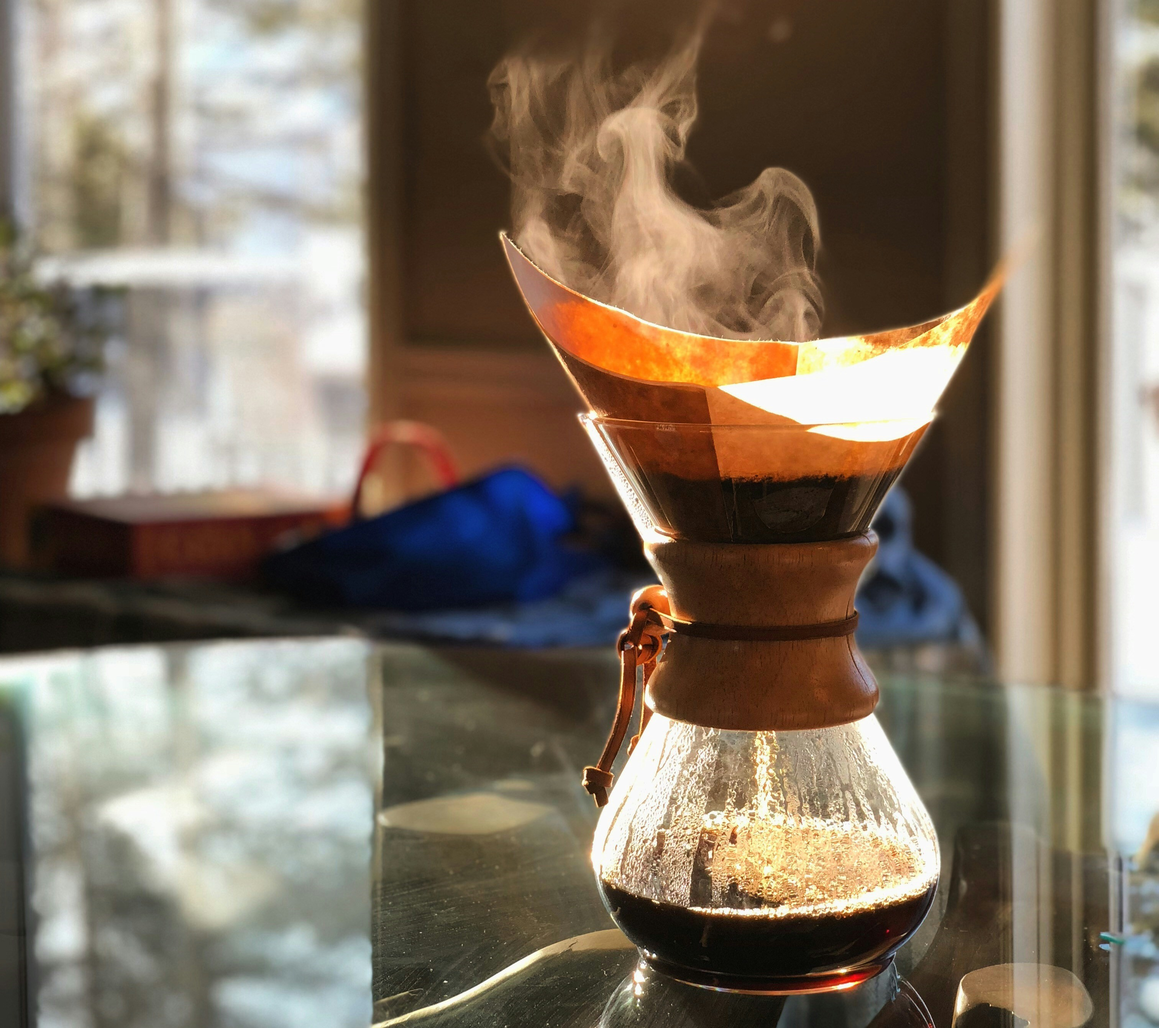
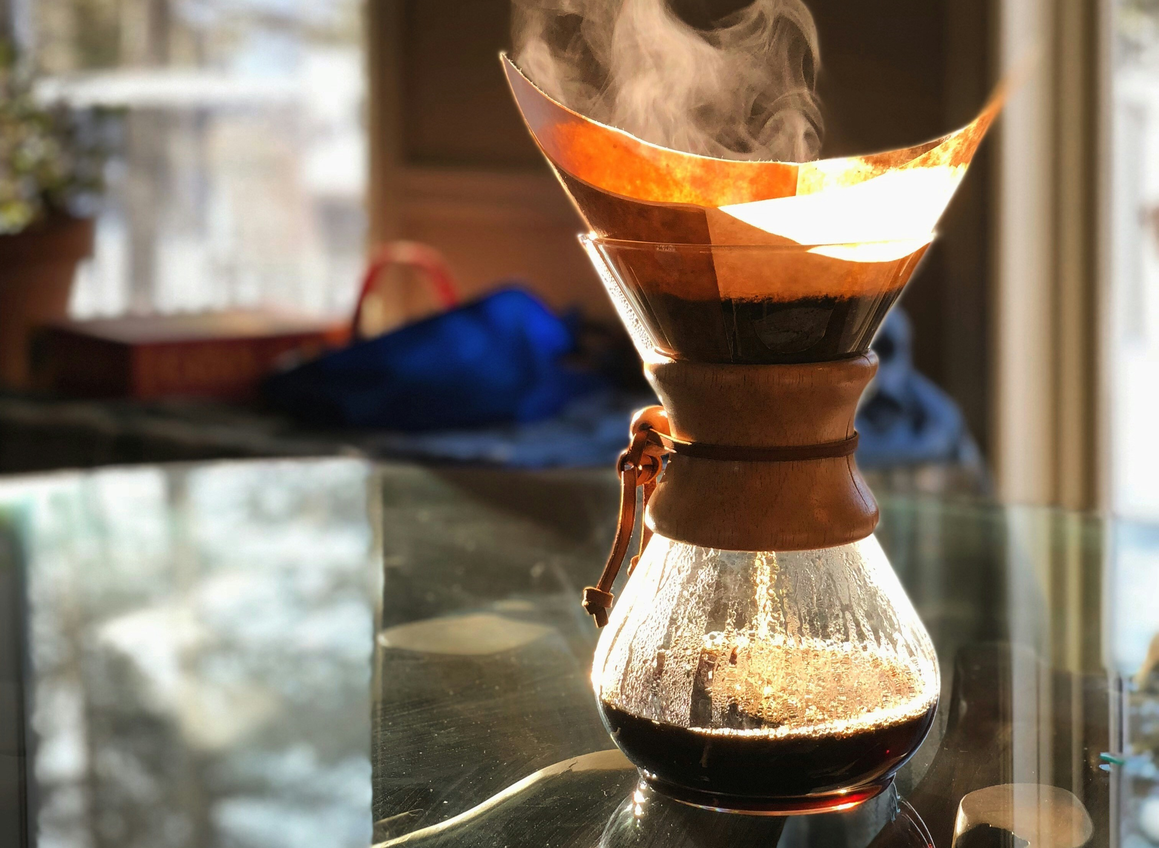
shop with header and footer

diff --git a/pages/shop.html b/pages/shop.html
@@ -82,16 +82,16 @@
 
                 <div class="carousel-inner">
                     <div class="carousel-item active">
-                        <img src="../images/Shop/shop_1.jpg" alt="chemex" class="d-block" style="width:100%">
+                        <img class="fit-cover" src="../images/Shop/shop_1.jpg" alt="chemex" class="d-flex" style="width: 100%">
                     </div>
                     <div class="carousel-item">
-                        <img src="../images/Shop/shop_2.jpg" alt="Gray plunger pot" class="d-block" style="width:100%">
+                        <img class="fit-cover" src="../images/Shop/shop_2.jpg" alt="Gray plunger pot" class="d-block" style="width: 100%">
                     </div>
                     <div class="carousel-item">
-                        <img src="../images/Shop/shop_3.jpg" alt="Black plunger pot" class="d-block" style="width:100%">
+                        <img src="../images/Shop/shop_3.jpg" alt="Black plunger pot" class="d-block" style="width: 100%">
                     </div>
                     <div class="carousel-item">
-                        <img src="../images/Shop/shop_4.jpg" alt="Black plunger pot" class="d-flex" style="width:100%">
+                        <img src="../images/Shop/shop_4.jpg" alt="Black plunger pot" class="d-block" style="width: 100%">
                     </div>
                 </div>
 
@@ -108,8 +108,6 @@
                 </button>
             </div>
         </div>
-
-
 
 
 

diff --git a/css/style.css b/css/style.css
@@ -63,6 +63,20 @@ ul, li {
     margin-bottom: 30px;
   }
 }
+/*################ Shop ################*/
+@media screen and (max-width: 992px) {
+  #main_shop #carousel_shop {
+    width: 100px;
+    height: 100px;
+    max-height: 800px;
+    justify-content: center;
+    margin-bottom: 300px;
+  }
+  #main_shop #carousel_shop .carousel-item img {
+    height: 100px;
+    object-fit: cover;
+  }
+}
 /*################## Footer################ */
 @media screen and (max-width: 992px) {
   #footer__footer {
@@ -276,20 +290,21 @@ ul, li {
   color: white;
   text-align: center;
   width: 100%;
-  height: 1500px;
+  height: auto;
 }
-
-.main-shop_title {
+#main-shop .main-shop_title {
   padding-bottom: 80px;
   padding-top: 80px;
 }
-
-#carousel_shop {
-  width: 1000px;
-  height: 1000px;
+#main-shop #carousel_shop {
+  width: 70%;
+  height: 100%;
+  max-height: 1800px;
+  justify-content: center;
+  margin-bottom: 300px;
 }
-#carousel_shop .carousel-item img {
-  width: 100%;
+#main-shop #carousel_shop .carousel-item img {
+  height: 900px;
   object-fit: cover;
 }
 

diff --git a/sass/PagesStyles/_shop.scss b/sass/PagesStyles/_shop.scss
@@ -3,8 +3,8 @@
     color: white;
     text-align: center;
     width: 100%;
-    height: 1500px;
-}
+    height: auto;
+
     .main-shop_title {
         padding-bottom: 80px;
         padding-top: 80px;
@@ -12,7 +12,13 @@
 
 
 #carousel_shop {
-    width: 1000px;
-    height: 1000px;
-        .carousel-item img {width: 100%; object-fit: cover;}
+    width: 70%;
+    height: 100%;
+    max-height: 1800px;
+    justify-content: center;
+    margin-bottom: 300px;
+        .carousel-item {
+            img {height: 900px; object-fit: cover;}
+}
+} 
 }

diff --git a/sass/Formats/_breakpoints.scss b/sass/Formats/_breakpoints.scss
@@ -61,6 +61,25 @@
     }
 }
 
+
+/*################ Shop ################*/
+
+@media screen and (max-width: 992px) {
+
+    #main_shop {
+    #carousel_shop {
+        width: 100px;
+        height: 100px;
+        max-height: 800px;
+        justify-content: center;
+        margin-bottom: 300px;
+            .carousel-item {
+                img {height: 100px; object-fit: cover;}
+    }
+    } 
+}
+}
+
 /*################## Footer################ */
 
 @media screen and (max-width: 992px) {
